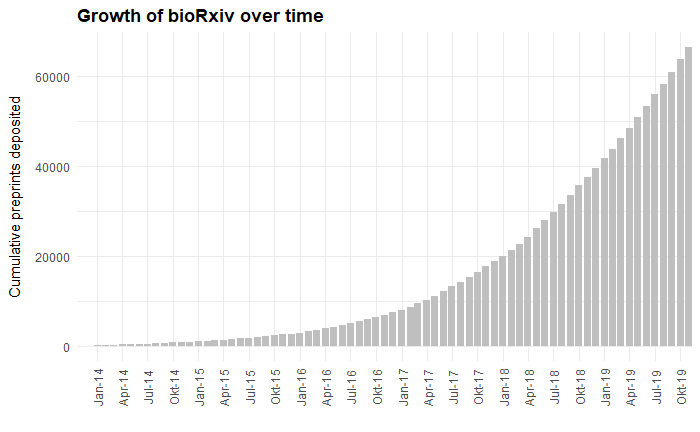
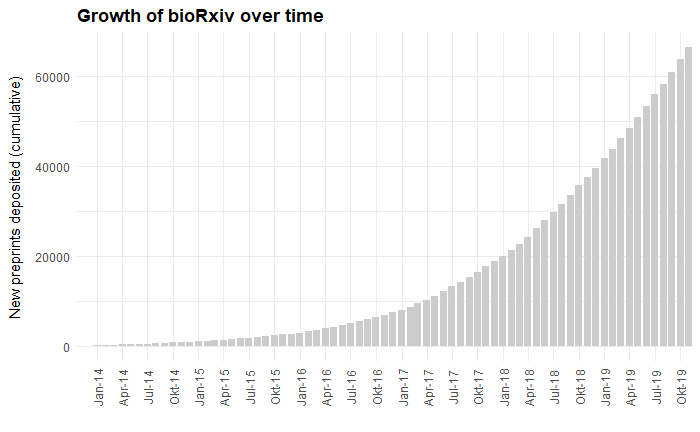
work in progress

Changed region(s): [[0.0, 0.1806, 0.03, 0.7523]]

diff --git a/Readme.md b/Readme.md
@@ -104,24 +104,27 @@ biorrxiv_usage(interval = "m")
 ``` r
 library(tidyverse)
 
-# Plot the cumulative number of papers deposited per month
+# Plot the cumulative number of new preprints deposited per month
 # Note that month dates are returned in YYYY-MM format - here we convert
 # month dates to YYYY-MM-DD format before plotting
 biorrxiv_summary(interval = "m", format = "df") %>%
   mutate(month = as.Date(paste0(month, "-01", format = "%Y-%m-%d"))) %>%
   ggplot() +
   geom_bar(aes(x = month, y = new_papers_cumulative),
-           fill = "grey75",
+           fill = "#cccccc",
            stat = "identity") +
   labs(x = "",
-       y= "Cumulative preprints deposited") +
+       y= "New preprints deposited (cumulative)",
+       title ="Growth of bioRxiv over time") +
   scale_x_date(date_breaks = "3 months",
                date_minor_breaks = "3 months",
-               date_labels = "%b-%y") +
+               date_labels = "%b-%y",
+               expand = c(0,0)) +
   theme_minimal() +
   theme(
     axis.text.x = element_text(angle = 90, vjust = 0.5),
-    axis.title.y = element_text(margin = margin(t = 0, r = 10, b = 0, l = 0))
+    axis.title.y = element_text(margin = margin(t = 0, r = 10, b = 0, l = 0)),
+    plot.title = element_text(face = "bold")
   )
 ```
 
